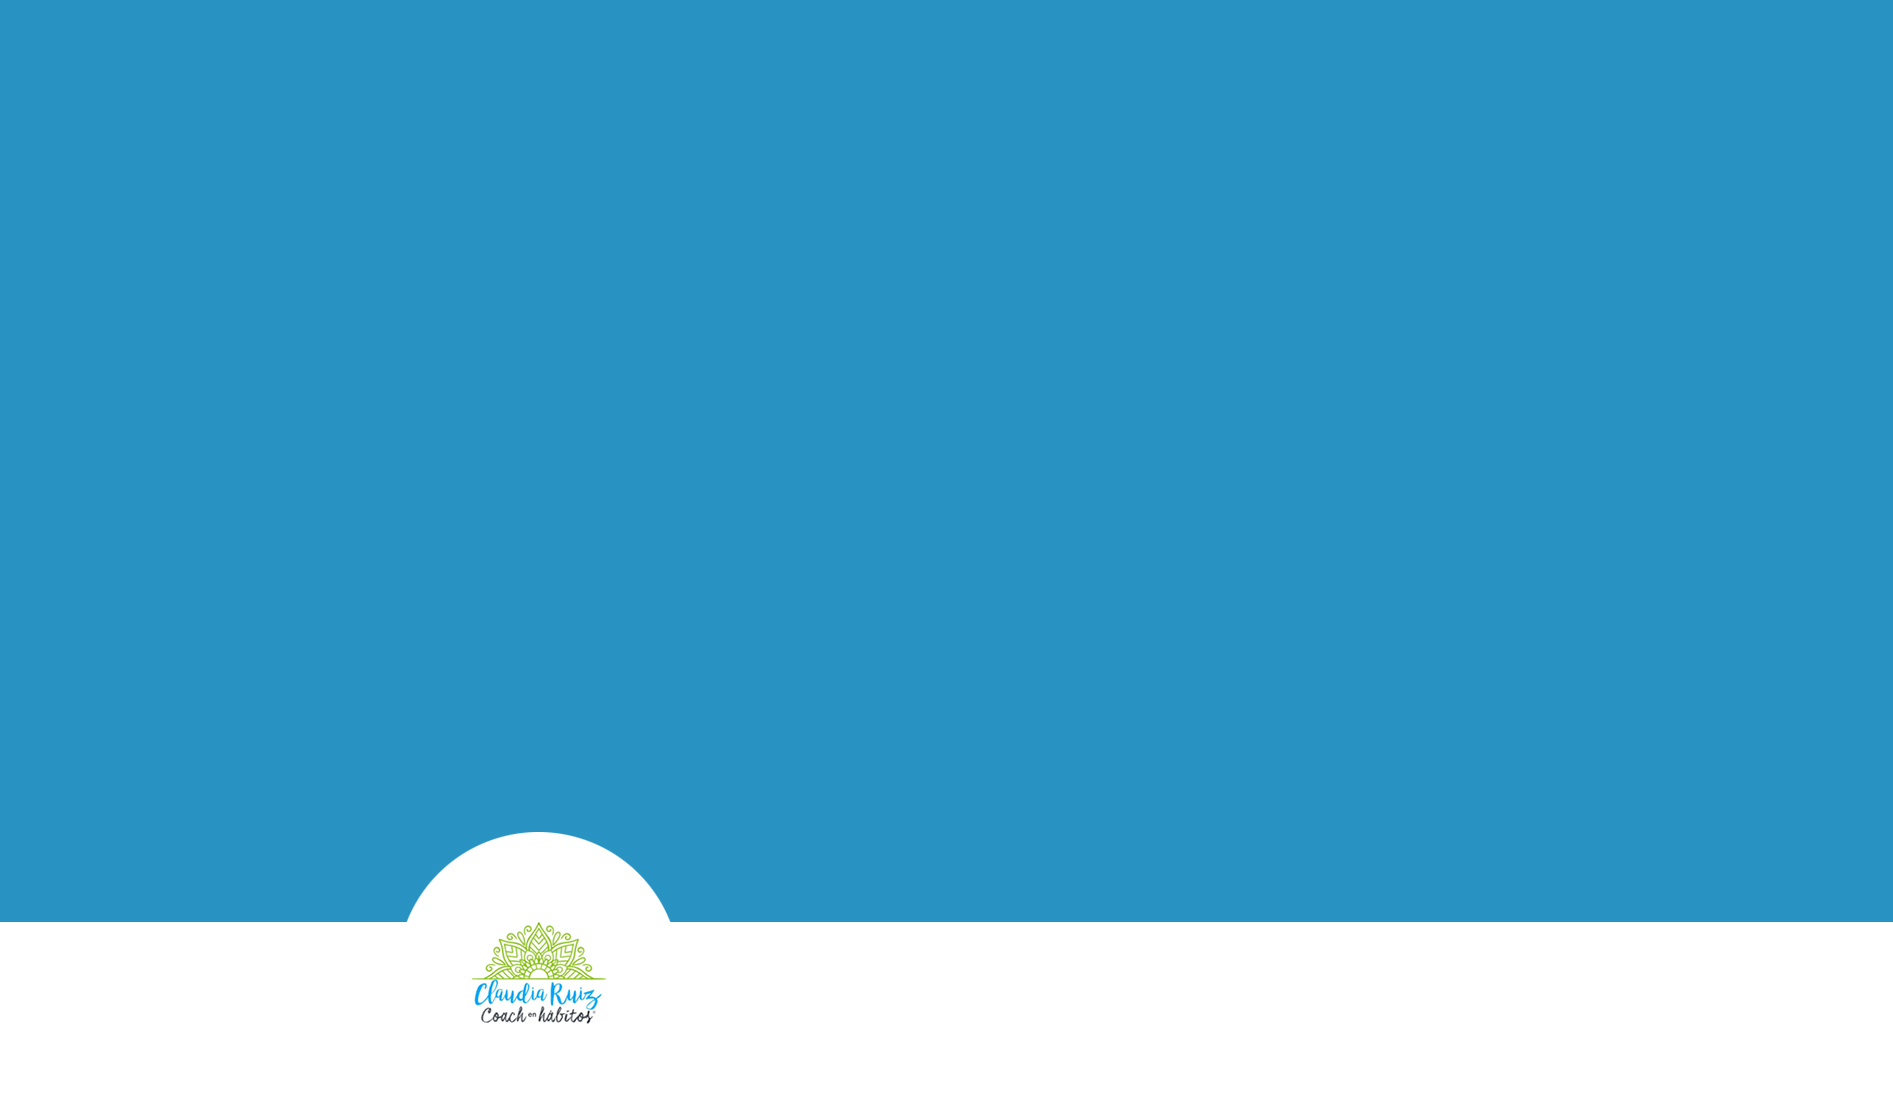
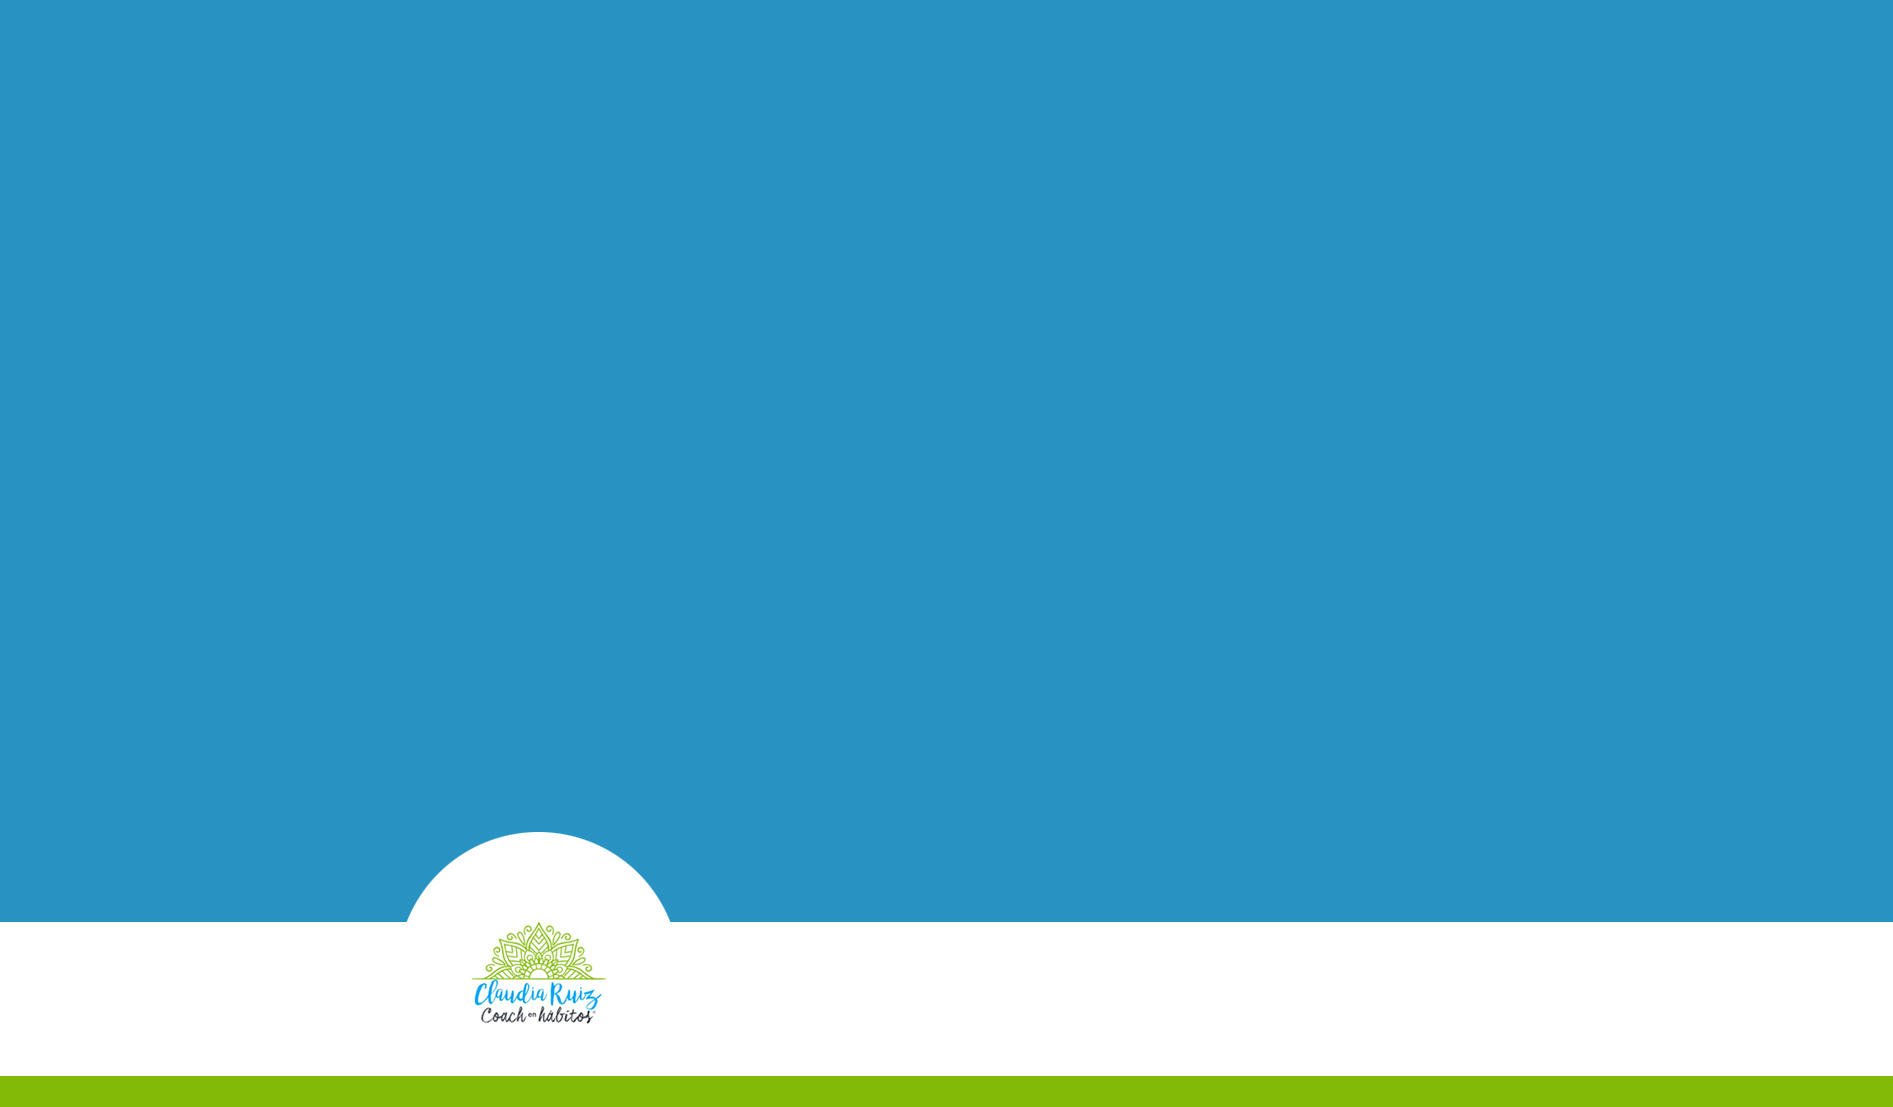
desktop almost done

Changed region(s): [[0.0, 0.9521, 1.0, 1.0]]

diff --git a/less/main.less b/less/main.less
@@ -132,7 +132,7 @@ a{
 }
 
 .blue{
-    color: @blue;
+    color: @blue !important;
 }
      
 .yellow{
@@ -391,11 +391,16 @@ h2, h1{
 
 #contacto{
     background-color: @blue;
+    background: url(../img/home/back-contacto.jpg) left -300px center;
+
+    height: 1070px;
     background-size: cover;
     padding-top: 80px;
     padding-bottom: 40px;
     
     //HABITOS FACILES 
+    
+    
     
     .col{
         
@@ -441,6 +446,32 @@ h2, h1{
          
         }
     }
+    
+    .bot{
+        height: 300px;
+          position: relative;
+         #social{
+           position:absolute;
+            bottom:5%;
+            right:20%;
+             
+             .flex{
+                 
+                 .col{
+                     width: 20%;
+                     padding: 0 5px;
+                 }
+                 .txt{
+                     width: 60%;
+                     padding: 0;
+                     p{
+                         font-size: 40px;
+                     }
+                 }
+             }
+        }
+    }
+   
     
     //El resto es copia de otra sección de contacto.
     
@@ -596,7 +627,7 @@ h2, h1{
                         font-size: 20px;
                         height: 60px;
                         text-transform: uppercase !important;
-                        font-weight: 600;
+                    font-weight: 600 !important;
                     height: 1%;
                 
                 option{
@@ -626,6 +657,7 @@ h2, h1{
                         font-family: "DIN" !important;
                         padding: 23px;
                         font-size: 20px;
+                        font-weight: 600 !important;
                         
                         &::-webkit-input-placeholder {
                             color: black !important;

diff --git a/less/main.css b/less/main.css
@@ -99,7 +99,7 @@ a {
   color: #0c4761;
 }
 .blue {
-  color: #2893c2;
+  color: #2893c2 !important;
 }
 .yellow {
   color: #ffea03 !important;
@@ -294,6 +294,8 @@ h1 {
 }
 #contacto {
   background-color: #2893c2;
+  background: url(../img/home/back-contacto.jpg) left -300px center;
+  height: 1070px;
   background-size: cover;
   padding-top: 80px;
   padding-bottom: 40px;
@@ -324,6 +326,26 @@ h1 {
   position: relative;
   right: 10%;
   font-size: 48px;
+}
+#contacto .bot {
+  height: 300px;
+  position: relative;
+}
+#contacto .bot #social {
+  position: absolute;
+  bottom: 5%;
+  right: 20%;
+}
+#contacto .bot #social .flex .col {
+  width: 20%;
+  padding: 0 5px;
+}
+#contacto .bot #social .flex .txt {
+  width: 60%;
+  padding: 0;
+}
+#contacto .bot #social .flex .txt p {
+  font-size: 40px;
 }
 #contacto #responsable {
   padding: 10px 3px 8px 15px;
@@ -419,7 +441,7 @@ h1 {
   font-size: 20px;
   height: 60px;
   text-transform: uppercase !important;
-  font-weight: 600;
+  font-weight: 600 !important;
   height: 1%;
   margin-bottom: 0px;
   margin-top: 20px;
@@ -442,6 +464,7 @@ h1 {
   font-family: "DIN" !important;
   padding: 23px;
   font-size: 20px;
+  font-weight: 600 !important;
 }
 #contacto .col #cform #caldera_form_1 .row .col-sm-12 .form-control::-webkit-input-placeholder,
 #contacto .col #cform #caldera_form_1 .single .col-sm-12 .form-control::-webkit-input-placeholder {

diff --git a/templates/shiny-footer.php b/templates/shiny-footer.php
@@ -67,6 +67,26 @@
             
         </div>
         
+        <div class="bot">
+            <div id="social">
+               <div class="flex">
+                   <div class="col txt fcentered">
+                       <p class="friend blue">
+                    Sígueme en: 
+                </p>
+                   </div>
+                   <div class="col fcentered">
+                       <img src="<?php echo get_stylesheet_directory_uri(); ?>/img/home/005-facebook.png" alt="Facebook">
+                   </div>
+                   <div class="col fcentered">
+                       <img src="<?php echo get_stylesheet_directory_uri(); ?>/img/home/006-instagram.png" alt="Instagram">
+                   </div>
+               </div>
+                
+                
+            </div>
+        </div>
+        
                        
     </div>
     
